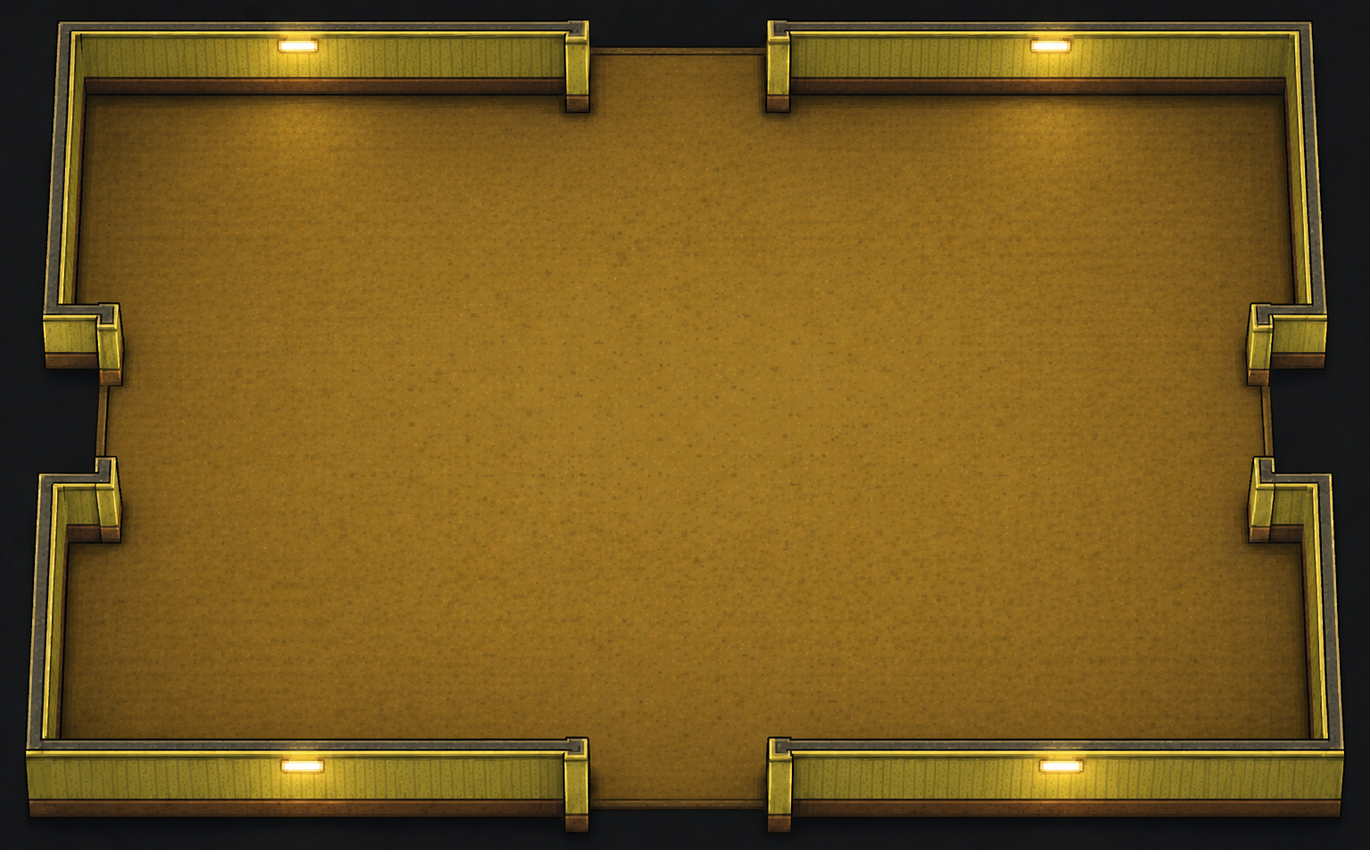
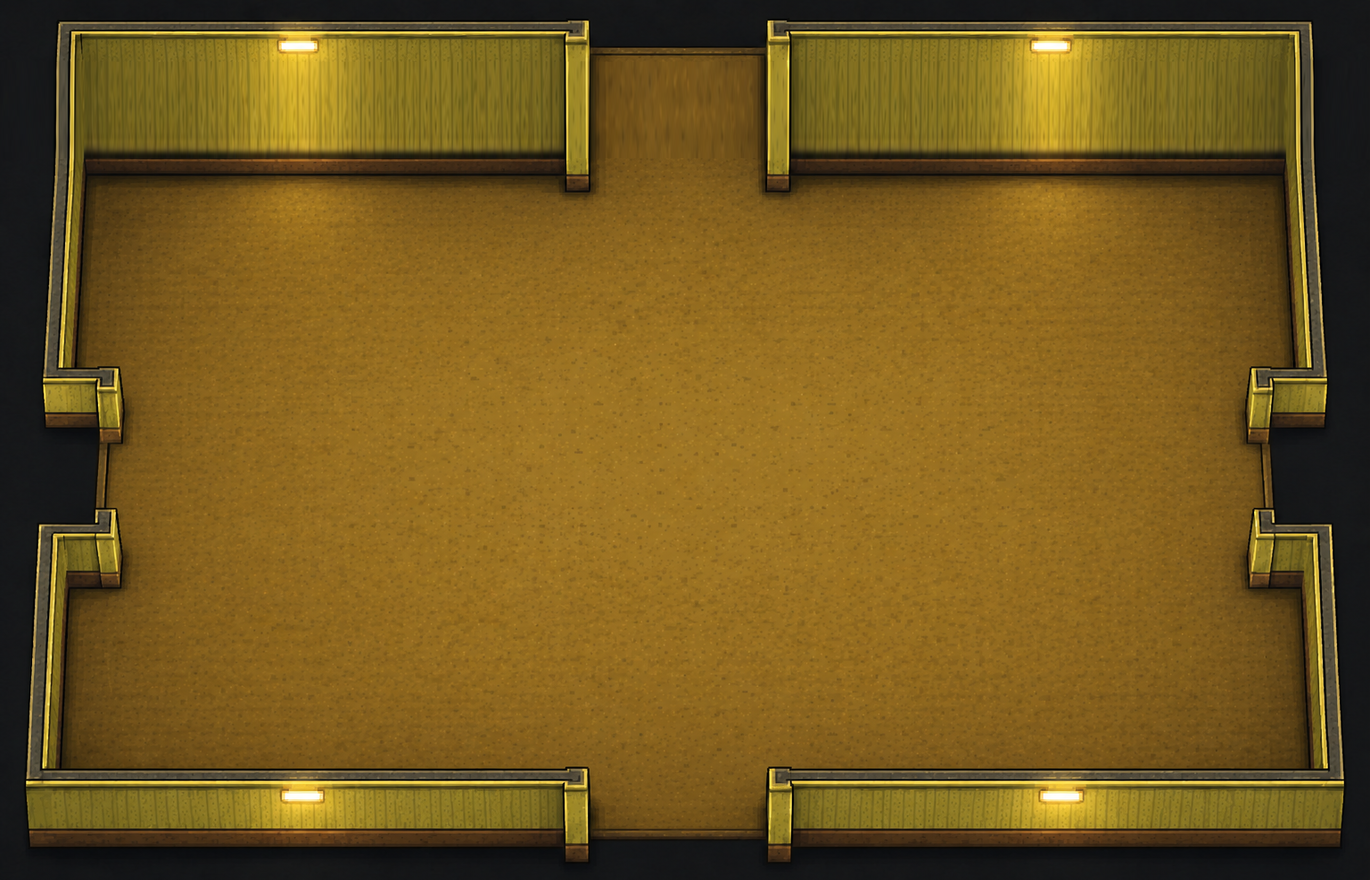
Комната под рост персонажа: высокая стена, границы по полу, косяки дверей
Комната пришла нарисованной строго сверху: у верхней стены видна была её
толщина, шестьдесят пикселей, а не лицевая часть. Персонаж ростом сто
пятьдесят шесть торчал над ней целиком и головой уходил за картинку.
Уменьшать его нельзя — на шестидесяти четырёх у него теряется лицо, — так
что подстроилась комната, а не он. Полоса обоев под лампами размножена по
вертикали до ста восьмидесяти пикселей; команда записана в art/README.md,
настоящий рисунок стены остаётся арт-задачей.

Стена оплачена полом: окно стенда 1400x880 при масштабе один к одному, и
картинка обязана влезать в него целиком. Пол ужат с 1160x640 до 1186x604 —
шире и ниже прежнего.

Границы игровой зоны сняты заново с картинки. Справа они не доставали до
стены двадцать восемь пикселей, снизу девятнадцать: там оставалась полоса
нарисованного пола, на которую нельзя было ступить. Снизу зона теперь
заходит на стену — персонаж стоит перед ней, а не на ней.

Дверные проёмы перестали быть украшением. Косяки торчат в комнату на
тридцать пять пикселей, и с прежними границами тело вставало внутрь стены;
теперь оно из них выталкивается по ближайшему выходу, не покидая комнаты.
Список прямоугольников лежит в состоянии забега и уйдёт, когда на M3 двери
откроются, — отсюда седьмая версия формата сейва.

Стенд центрируется по картинке, а не по игровой зоне: зона смещена в ней
вниз, и от центрирования по зоне верх стены с лампами уезжал за экран.

Changed region(s): [[0.0, 0.0306, 0.981, 0.9482], [0.0, 0.8565, 0.4292, 0.9482], [0.4292, 0.0612, 0.5518, 0.0918]]

diff --git a/art/README.md b/art/README.md
@@ -21,7 +21,7 @@ tools/run.sh        # запустить стенд
 | `player_colt_stand.png`, `player_colt_walk_1..6.png` | То же с кольтом наизготовку: другой хват, поэтому свой набор |
 | `colt.png` | Кольт в руке, 19×12. Ложится в кисть рукоятью — точка в `CharacterPose.WEAPON_GRIP` |
 | `colt_top.png` | Кольт сверху, 19×4. Задел под лут на полу, пока не рисуется |
-| `room_start.png` | Фон комнаты: пол 1160×640 плюс стены вокруг, всего 1370×850 |
+| `room_start.png` | Фон комнаты: пол 1186×604 плюс стены вокруг, всего 1370×880 |
 | `monster.png` | **Заглушка**, собирается `tools/make_placeholder_art.py` |
 | `folder.png` | Чёрный A4-портфель служащего, финальный снаряд 42×34 |
 
@@ -73,8 +73,42 @@ python3 tools/import_room.py ~/Downloads/комната.png art/room_start.png \
 ffmpeg -i комната.png -vf "drawgrid=w=100:h=100:t=2:c=red" -y /tmp/сетка.png
 ```
 
-Инструмент печатает отступ стен — его надо перенести в `WorldView.ROOM_INSET`.
-Тест «конвейер арта» краснеет, если картинка и константа разошлись.
+Тест «форма комнаты» краснеет, если картинка и константы разошлись.
+
+### Три числа, которые обязаны сходиться
+
+| Что | Где лежит | Сейчас |
+|---|---|---|
+| Отступ от края картинки до пола | `WorldView.ROOM_INSET` | 91, 180 |
+| Игровая зона | `Room.dev_room().bounds` | 1186×604 |
+| Дверные косяки | `Room.dev_room().blockers` | два по 35 пикселей |
+
+Границы **не равны** нарисованному полу — почему, написано в
+`../docs/DECISIONS.md`, «Комната подгоняется под персонажа». Коротко: сверху
+тело стоит перед стеной и не должно выносить голову за картинку, снизу
+заходит на стену, потому что стоит перед ней.
+
+### Верхняя стена растянута кодом
+
+Комната пришла нарисованной сверху: у верхней стены была видна её толщина
+(60 пикселей), а не лицевая часть. Персонаж ростом 156 торчал над ней
+целиком. До настоящего рисунка стена растянута механически — полоса обоев
+под лампами размножена по вертикали, а пол поджат, чтобы всё осталось
+в окне 1400×880:
+
+```bash
+ffmpeg -i было.png -filter_complex "\
+[0]crop=1370:62:0:0[a];\
+[0]crop=1370:16:0:62,scale=1370:96[b];\
+[0]crop=1370:22:0:78[c];\
+[0]crop=1370:638:0:100,scale=1370:588[d];\
+[0]crop=1370:112:0:738[e];\
+[a][b][c][d][e]vstack=5" -y art/room_start.png
+```
+
+Команда **не идемпотентна**: второй прогон растянет стену дважды. Она здесь
+как запись того, что сделано, а не как шаг конвейера. Настоящая верхняя
+стена — арт-задача на доске.
 
 ## Картинка из чата или генератора
 
@@ -89,9 +123,9 @@ python3 tools/import_sprite.py ~/Downloads/картинка.jpeg art/monster.png
 вырезает фон и счищает крошку JPEG по контуру. `--height N` ужимает,
 `--step S` задаёт сетку вручную.
 
-**Ужимать бывает нельзя.** Персонаж нарисован высотой 159 пикселей; на 64
+**Ужимать бывает нельзя.** Персонаж нарисован высотой 156 пикселей; на 64
 у него теряется лицо, на 48 разваливается силуэт. Поэтому под спрайт
-подогнан масштаб мира, а не наоборот: комната 1160×640, тело занимает
+подогнан масштаб мира, а не наоборот: пол комнаты 1186×604, тело занимает
 четверть её высоты.
 
 ## Заглушки

diff --git a/tests/README.md b/tests/README.md
@@ -44,6 +44,7 @@ pre-commit хук.
 | `test_schema.gd` | инвариант | Валидатор контента падает на расхождении (правило 5) |
 | `test_project_settings.gd` | инвариант | Рендерер, тик, главная сцена против `DECISIONS.md` |
 | `test_input_map.gd` | инвариант | `project.godot` не разошёлся с таблицей ввода |
+| `test_room_shape.gd` | инвариант | Границы и дверные косяки не разошлись с нарисованной комнатой |
 | `test_combat.gd` | поведение | Стрельба, урон, падение игрока, зачистка комнаты |
 | `test_ballistics.gd` | поведение | Дальность, кувырок, наследование скорости броска |
 | `test_enemies.gd` | поведение | Три повадки различаются и все трое достают игрока |
